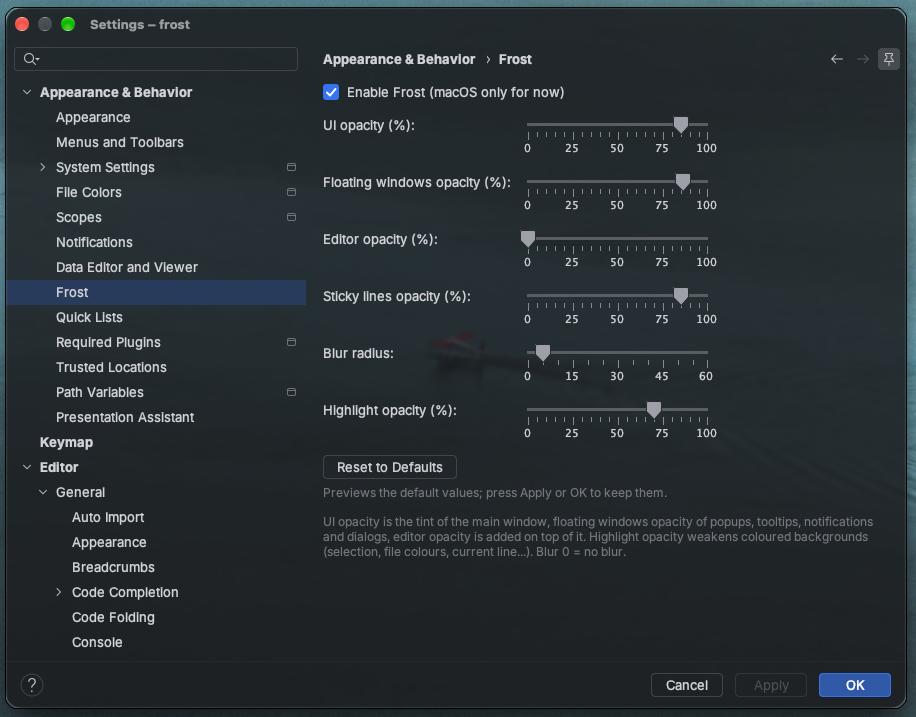
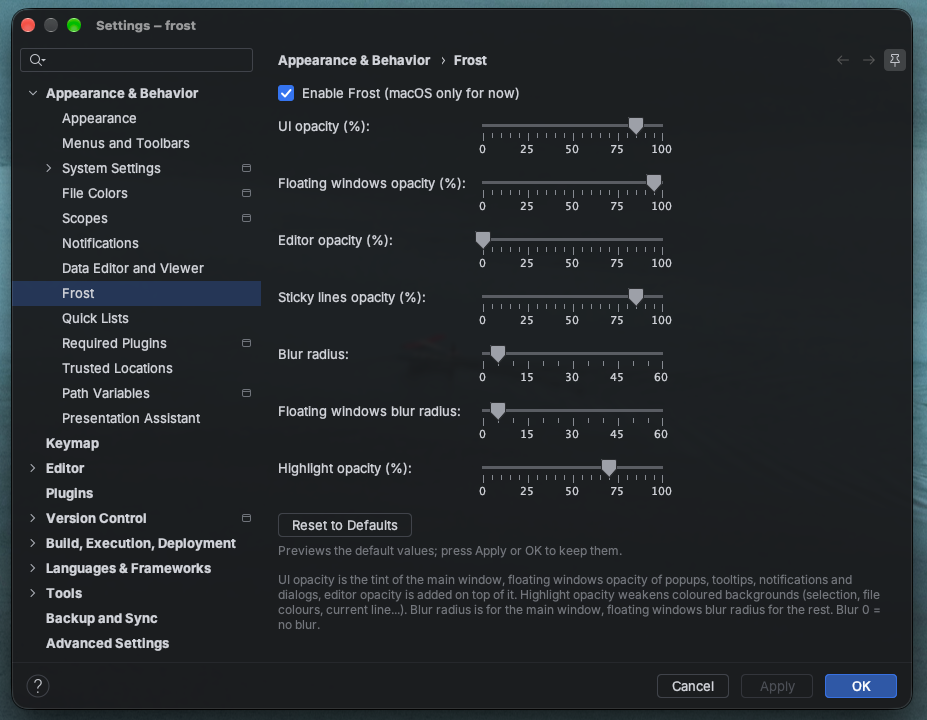
README: update settings screenshot with floating windows blur

diff --git a/README.md b/README.md
@@ -60,7 +60,7 @@ Quick toggle at any time: <kbd>View</kbd> → <kbd>Frost</kbd>.
 <kbd>Settings</kbd> → <kbd>Appearance & Behavior</kbd> → <kbd>Frost</kbd>. Every change previews live; Cancel reverts.
 
 <p align="center">
-  <img src="docs/frost-settings.png" width="640" alt="Frost settings page: opacity sliders, blur radius and Reset to Defaults">
+  <img src="docs/frost-settings.png" width="640" alt="Frost settings page: opacity sliders, main and floating windows blur radius and Reset to Defaults">
   <br>
   <sub>The Frost settings page</sub>
 </p>
